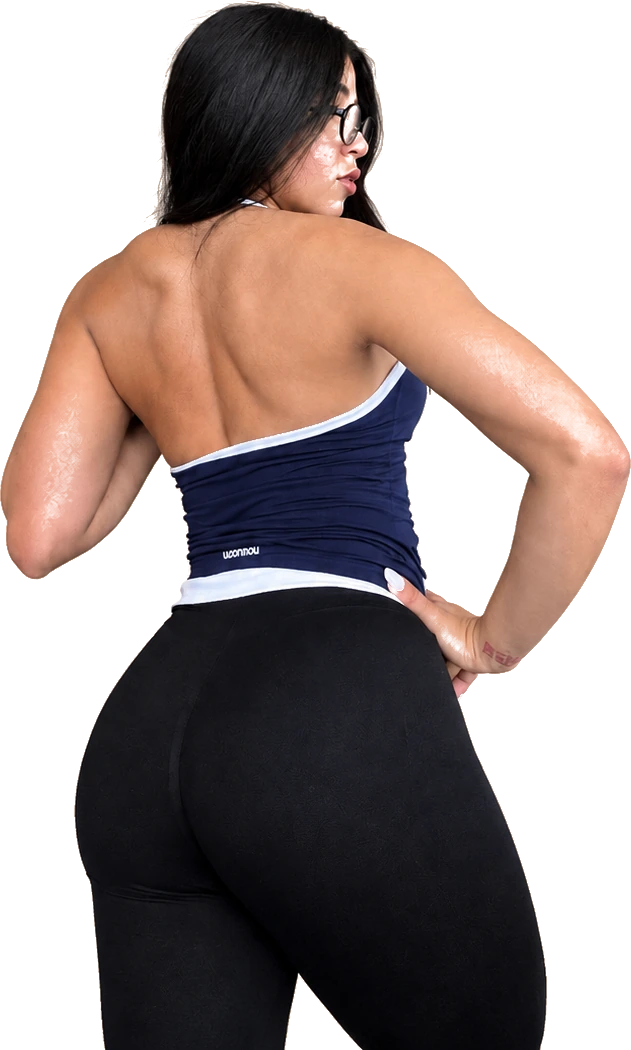
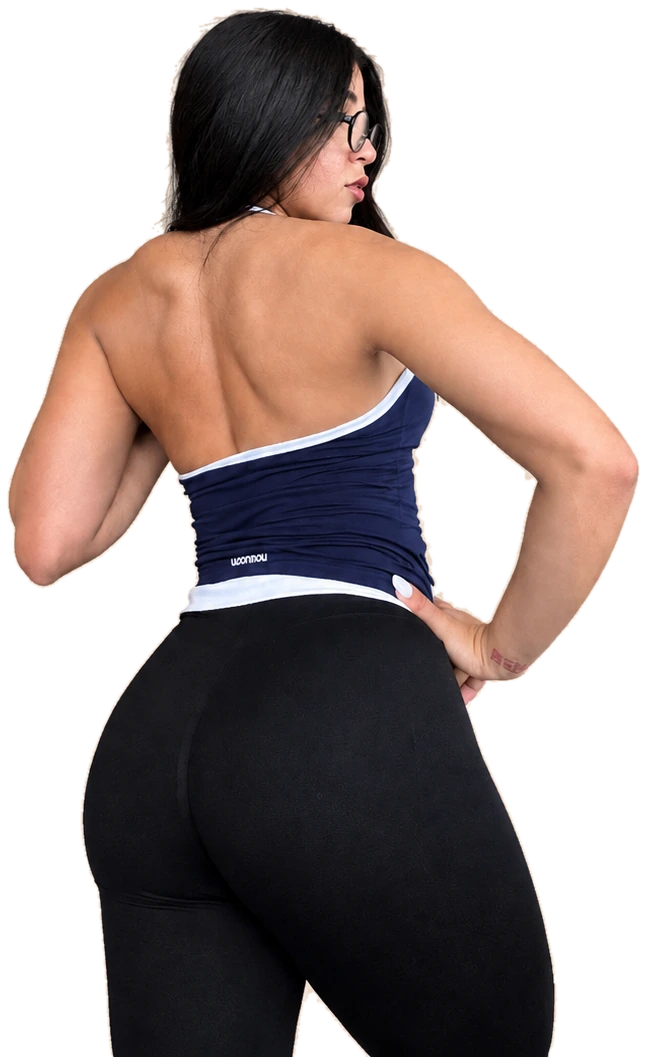
fix(tienda): recorte del hero, header flotante con iconos, premium difuminado, buscador con lupa y botones de sesion

diff --git a/Frontend/src/main.tsx b/Frontend/src/main.tsx
@@ -291,7 +291,7 @@ function Storefront() {
       dispatchToast(<Toast><ToastTitle>{mensaje}</ToastTitle></Toast>, { intent: 'error' });
     }
   };
-  return <><Toaster toasterId={toasterId} /><header className="topbar"><div className="brand"><img className="brand-mark" src="/media/brand/isotypo.jpg" alt="" /><span>JEN STUDIO</span></div><nav><a href="#catalogo">Catálogo</a>{premium.length > 0 && <a href="#premium">Premium</a>}<a href="#historia">La colección</a></nav></header><main><section className="hero">
+  return <><Toaster toasterId={toasterId} /><header className="topbar"><a className="brand" href="#inicio" aria-label="JEN STUDIO · inicio"><img className="brand-mark" src="/media/brand/isotypo.jpg" alt="" /><span>JEN STUDIO</span></a><nav className="topnav" aria-label="Secciones"><a className="topnav-link" href="#inicio" aria-label="Inicio" title="Inicio"><svg viewBox="0 0 24 24" fill="none" stroke="currentColor" strokeWidth="1.8" aria-hidden="true"><path d="M3 10.5 12 3l9 7.5" /><path d="M5 9.5V21h14V9.5" /></svg><span>Inicio</span></a><a className="topnav-link" href="#premium" aria-label="Productos premium" title="Premium"><svg viewBox="0 0 24 24" fill="none" stroke="currentColor" strokeWidth="1.8" aria-hidden="true"><path d="M12 2.5l2.9 6 6.6.6-5 4.4 1.5 6.5L12 16.6 5.9 20l1.5-6.5-5-4.4 6.6-.6z" /></svg><span>Premium</span></a><a className="topnav-link" href="#catalogo" aria-label="Catálogo" title="Catálogo"><svg viewBox="0 0 24 24" fill="none" stroke="currentColor" strokeWidth="1.8" aria-hidden="true"><rect x="3" y="3" width="7" height="7" rx="1.5" /><rect x="14" y="3" width="7" height="7" rx="1.5" /><rect x="3" y="14" width="7" height="7" rx="1.5" /><rect x="14" y="14" width="7" height="7" rx="1.5" /></svg><span>Catálogo</span></a><a className="topnav-link topnav-link--historia" href="#historia" aria-label="La colección" title="La colección"><svg viewBox="0 0 24 24" fill="none" stroke="currentColor" strokeWidth="1.8" aria-hidden="true"><path d="M12 21s-7-4.5-9-9a5 5 0 0 1 9-3 5 5 0 0 1 9 3c-2 4.5-9 9-9 9z" /></svg><span>La colección</span></a></nav></header><main><section id="inicio" className="hero">
             <h1 className="sr-only">Viste tu propio estilo</h1>
             <div className="hero-stage">
               <div className="hero-marquee" aria-hidden="true">
@@ -310,11 +310,11 @@ function Storefront() {
               {heroFoto && <img className="hero-person" src="/media/hero/jenny-cutout-2.webp" alt="Joven con un top azul y leggings negros" width={631} height={1050} loading="eager" decoding="async" draggable={false} onError={() => setHeroFoto(false)} />}
             </div>
             <div className="hero-content">
-              <p className="eyebrow">HECHO PARA QUEDARTE / 2026</p>
+              <p className="eyebrow">HECHO PARA QUEDARTE</p>
               <p className="hero-copy">Ropa deportiva pensada para acompañar tu fuerza, estilo y cada movimiento. Representamos a mujeres que se mueven, se superan, ganan confianza y encuentran su propia fuerza.</p>
               <Button appearance="primary" size="large" onClick={() => document.getElementById('catalogo')?.scrollIntoView({ behavior: 'smooth' })}>Explorar colección ↓</Button>
             </div>
-          </section><PremiumSection items={premium} onOpen={setDetail} /><section id="catalogo" className="catalog"><div className="session-filters" role="group" aria-label="Filtrar por sesion"><button type="button" className="adm-pill" aria-pressed={!activeSession} onClick={() => setActiveSession('')}>Todas</button>{sessions.map(session => <button type="button" className="adm-pill" key={session.id} aria-pressed={activeSession === session.id} onClick={() => setActiveSession(session.id)}>{session.name}</button>)}</div><div className="section-heading"><div><p className="eyebrow">CURATED FOR YOU</p><h2>Piezas para quedarte.</h2></div><Input aria-label="Buscar productos" placeholder="Buscar en la colección" value={query} onChange={(_, d) => setQuery(d.value)} /></div>{loading ? <Spinner label="Cargando colección" /> : products.length === 0 ? (
+          </section><PremiumSection items={premium} onOpen={setDetail} /><section id="catalogo" className="catalog"><div className="session-filters" role="group" aria-label="Filtrar por sesion"><button type="button" className="adm-pill" aria-pressed={!activeSession} onClick={() => setActiveSession('')}>Todas</button>{sessions.map(session => <button type="button" className="adm-pill" key={session.id} aria-pressed={activeSession === session.id} onClick={() => setActiveSession(session.id)}>{session.name}</button>)}</div><div className="section-heading"><div><h2>Piezas para quedarte.</h2></div><Input className="catalog-search" size="large" contentBefore={<svg width="18" height="18" viewBox="0 0 24 24" fill="none" stroke="currentColor" strokeWidth="1.8" aria-hidden="true"><circle cx="11" cy="11" r="7" /><path d="m16.5 16.5 4.5 4.5" /></svg>} aria-label="Buscar productos" placeholder="Buscar en la colección" value={query} onChange={(_, d) => setQuery(d.value)} /></div>{loading ? <Spinner label="Cargando colección" /> : products.length === 0 ? (
             activeSession
               ? <div className="catalog-empty-shelf"><p className="catalog-empty">{busqueda ? <>No hay prendas en esta sesión que cuenten con «{busqueda}».</> : <>Aún no hay prendas en «{sessions.find(s => s.id === activeSession)?.name ?? 'esta sesión'}».</>}</p><button type="button" className="adm-pill" onClick={() => { setActiveSession(''); setQuery(''); }}>Ver todas las sesiones</button></div>
               : <p className="catalog-empty">{busqueda ? <>No hay prendas que cuenten con «{busqueda}».</> : 'Todavía no hay prendas publicadas.'}</p>

diff --git a/Frontend/src/styles.css b/Frontend/src/styles.css
@@ -467,3 +467,40 @@ body{background:var(--j-beige);color:var(--j-chocolate)}
 .pcard-hint{font-family:var(--j-display);letter-spacing:.08em;text-transform:uppercase}
 /* Tactil: sin destello gris al tocar (Android) y area de toque comoda. */
 button,a{-webkit-tap-highlight-color:rgba(98,64,45,.12)}
+
+/* ===================== Header flotante ===================== */
+.topbar{position:sticky;top:0;z-index:20;display:flex;align-items:center;justify-content:space-between;background:rgba(235,220,205,.94);-webkit-backdrop-filter:blur(12px);backdrop-filter:blur(12px)}
+.brand{text-decoration:none;color:inherit}
+.topbar .topnav{display:flex;align-items:center;gap:6px}
+.topbar .topnav-link{display:inline-flex;align-items:center;gap:8px;padding:9px 14px;border-radius:999px;color:var(--j-ink);text-decoration:none;font-size:13px;font-weight:600;letter-spacing:.02em;transition:background .2s ease,color .2s ease,transform .18s ease,box-shadow .2s ease}
+.topbar .topnav-link svg{width:18px;height:18px;flex:none}
+.topbar .topnav-link:hover{background:var(--j-tint);color:var(--j-caramel-strong);transform:translateY(-1px)}
+.topbar .topnav-link:focus-visible{outline:2px solid var(--j-caramel);outline-offset:2px}
+section[id]{scroll-margin-top:92px}
+@media(max-width:760px){
+  .topbar{height:62px;padding:0 14px}
+  .brand span{display:none}
+  .topbar .topnav{gap:4px}
+  .topbar .topnav-link{padding:10px;border-radius:50%}
+  .topbar .topnav-link span{display:none}
+  .topbar .topnav-link svg{width:21px;height:21px}
+  .topbar .topnav-link--historia{display:none}
+  section[id]{scroll-margin-top:74px}
+}
+
+/* ===================== Buscador ===================== */
+.catalog-search{min-width:300px}
+.catalog-search svg{color:var(--j-muted)}
+@media(max-width:760px){.catalog-search{width:100%;min-width:0}}
+
+/* ===================== Botones de sesión (catálogo) ===================== */
+.session-filters{display:flex;gap:10px;flex-wrap:wrap;margin-bottom:26px}
+.session-filters .adm-pill{position:relative;padding:10px 20px;border:1px solid var(--j-line);border-radius:999px;background:var(--j-paper);color:var(--j-ink);font-size:14px;font-weight:600;letter-spacing:.02em;cursor:pointer;transition:background .2s ease,color .2s ease,border-color .2s ease,transform .15s ease,box-shadow .2s ease}
+.session-filters .adm-pill:hover{border-color:var(--j-caramel);color:var(--j-caramel-strong);transform:translateY(-1px);box-shadow:0 6px 16px #62402d1f}
+.session-filters .adm-pill[aria-pressed="true"]{background:var(--j-chocolate);border-color:var(--j-chocolate);color:var(--j-cream);box-shadow:0 8px 18px #62402d33}
+.session-filters .adm-pill:active{transform:translateY(0) scale(.97)}
+.session-filters .adm-pill:focus-visible{outline:2px solid var(--j-caramel);outline-offset:2px}
+
+/* ===================== Premium: difuminado del borde superior e inferior ===================== */
+.premium-stage::before{display:none}
+.premium-stage-blur{position:absolute;inset:0;width:100%;height:100%;object-fit:cover;filter:blur(18px);-webkit-mask-image:linear-gradient(to bottom,#000 0%,#000 22%,transparent 33% 67%,#000 78%,#000 100%);mask-image:linear-gradient(to bottom,#000 0%,#000 22%,transparent 33% 67%,#000 78%,#000 100%);pointer-events:none;transform:scale(1.02)}

diff --git a/Frontend/src/PremiumSection.tsx b/Frontend/src/PremiumSection.tsx
@@ -1,7 +1,5 @@
 import { useEffect, useRef, useState } from 'react';
-import { Product, STORE_CURRENCY, STORE_LOCALE } from './api';
-
-const money = (value: number) => new Intl.NumberFormat(STORE_LOCALE, { style: 'currency', currency: STORE_CURRENCY }).format(value);
+import { Product } from './api';
 
 /** Fondo fijo de la serie premium (no cambia al tocar: siempre la misma foto). */
 const FONDO_PREMIUM = '/media/premium/bg-premium.png';
@@ -69,6 +67,7 @@ export function PremiumSection({ items, onOpen }: { items: Product[]; onOpen: (p
 
       <div className="premium-stage">
         <img className="premium-stage-img" src={FONDO_PREMIUM} alt="" aria-hidden="true" loading="eager" decoding="async" />
+        <img className="premium-stage-blur" src={FONDO_PREMIUM} alt="" aria-hidden="true" loading="eager" decoding="async" />
 
         <div className="premium-copy" aria-live="polite">
           <p className="premium-kicker">¿Buscas una prenda exclusiva?</p>
@@ -102,7 +101,6 @@ export function PremiumSection({ items, onOpen }: { items: Product[]; onOpen: (p
 
         <div className="premium-foot">
           {datos && <span className="premium-specs">{datos}</span>}
-          <span className="premium-price">{money(producto.basePrice)}</span>
           <button type="button" className="premium-cta" onClick={() => onOpen(producto)}>Ver ficha <span aria-hidden="true">→</span></button>
         </div>
       </div>
